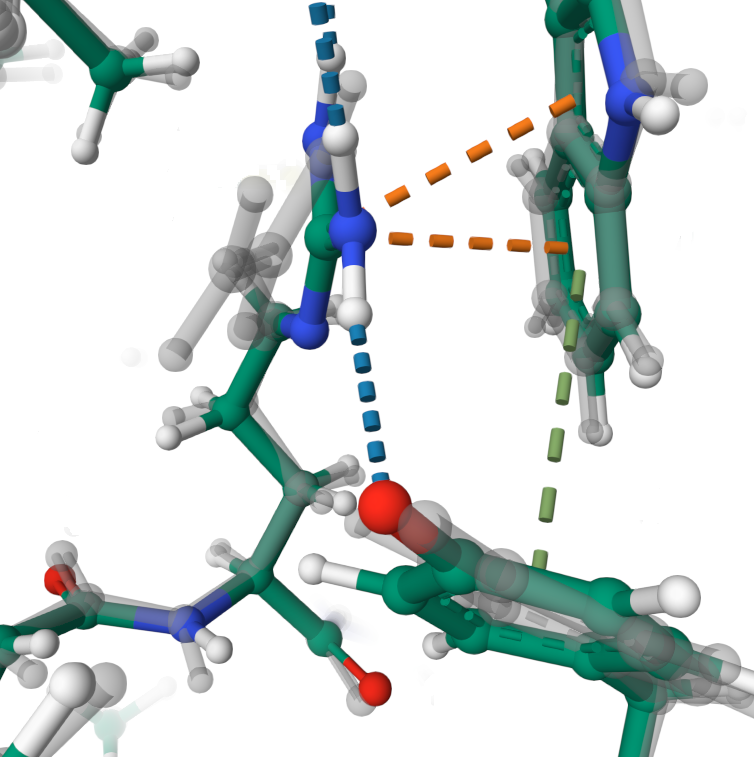
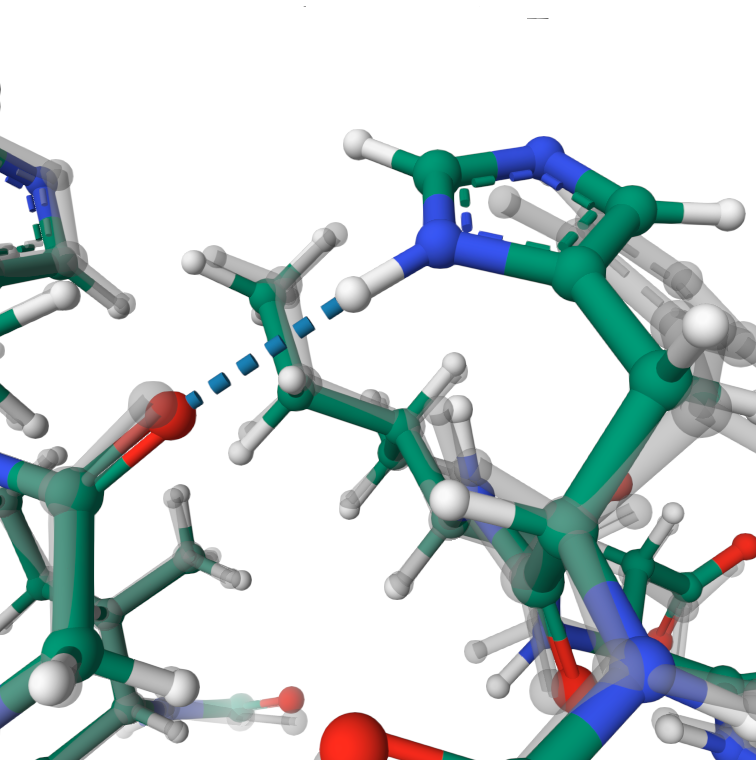
new example, introduction text

diff --git a/app/templates/index.html b/app/templates/index.html
@@ -25,7 +25,7 @@
                         rel="noreferrer">AlphaFold2 algorithm</a> and deposited in the <a
                         href="https://academic.oup.com/nar/article/50/D1/D439/6430488" target="_blank"
                         rel="noreferrer">AlphaFold DB</a> database.
-                    The structures are optimised by the physics-based generic force field <a
+                    Protein regions predicted with confidency less than 90 are optimized by the physics-based generic force field <a
                         href="https://onlinelibrary.wiley.com/doi/full/10.1002/anie.202004239" target="_blank"
                         rel="noreferrer">GFN-FF</a> which are approaching the accuracy of semiempirical QM methods. Optimisation is accelerated by <a
                         href="https://github.com/sb-ncbr/ppropt" target="_blank"
@@ -138,7 +138,8 @@ conformation.
             </div>
             <div class="col mt-3 text-justify">
                 <small>
-                    The hydrogen bond is created between atoms HH11 from ARG132 and OH from TYR258. Also, the cation-π interaction between ARG132 and TRP122 is strengthened.
+                    The hydrogen bond was formed between atoms HD1 from HIS20 and O from GLY86.
+                    
 
                 </small>
             </div>
